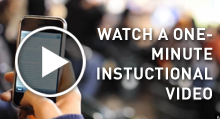
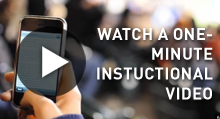
blue

Changed region(s): [[0.0545, 0.2017, 0.4091, 0.8571]]

diff --git a/app.css b/app.css
@@ -320,6 +320,10 @@ ul li {
   background-color:rgba(0,0,0,0.3);
   -webkit-border-radius: 8px;
 }
+  #watch-video:hover {
+    background: -webkit-gradient(linear, 0% 0%, 0% 100%, from(#00A5FF), to(#0086CE));
+    border-color:#00A5FF !important;
+  }
 
 #features {
   margin-top:14px;
